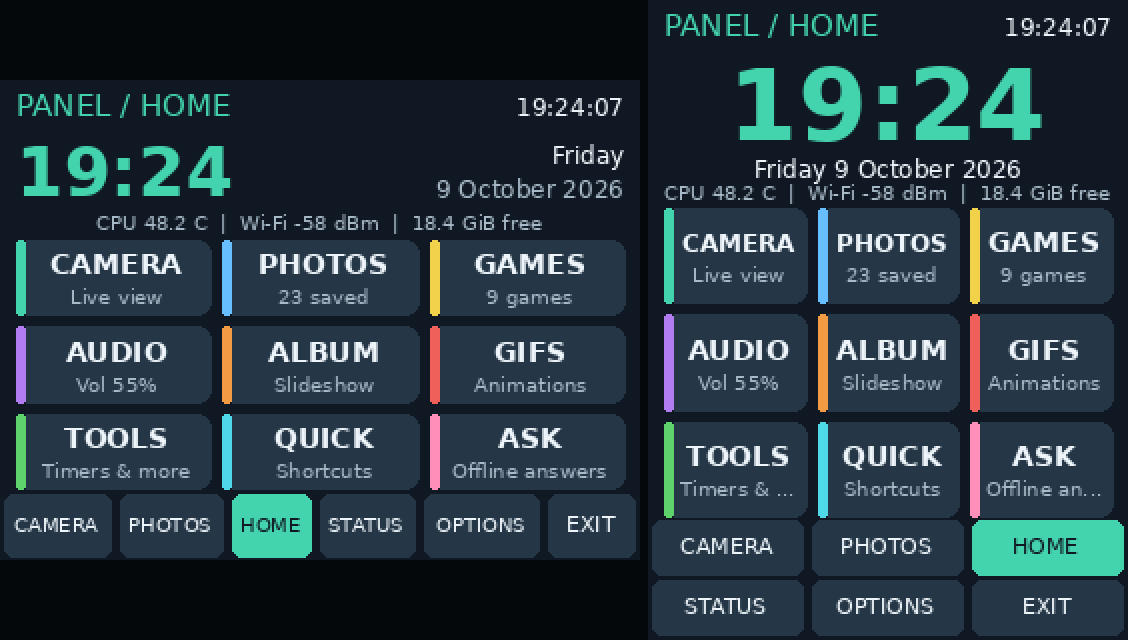
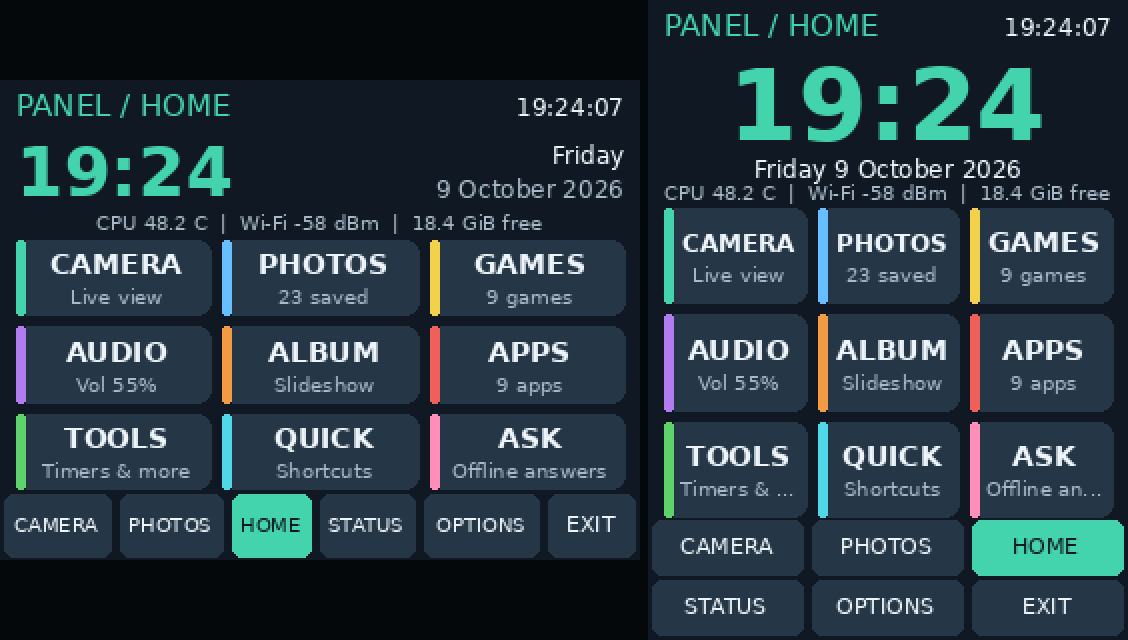
Home: an APPS tile in place of GIFS, so every app can be reached
Since Home replaced the APPS tab, nothing opened the APPS page, which left
SOS & LIGHT, PLANNER and READER unreachable. The GIFS tile becomes APPS; the
GIF player is still on the APPS page.

Claude-Session: https://claude.ai/code/session_016w3uQjEr2ZwcCKuYp4Kst7

diff --git a/panel_app.py b/panel_app.py
@@ -3287,7 +3287,7 @@ TAB_PARENT = {'health': 'status', 'history': 'status', 'savers': 'options', 'sav
 # Home page launcher: (label, key, accent colour).
 HOME_TILES = (('CAMERA', 'camera', ACCENT), ('PHOTOS', 'photos', BLUE),
               ('GAMES', 'games', YELLOW), ('AUDIO', 'audio', PURPLE),
-              ('ALBUM', 'album', ORANGE), ('GIFS', 'gifs', RED),
+              ('ALBUM', 'album', ORANGE), ('APPS', 'apps', RED),
               ('TOOLS', 'tools', GREEN), ('QUICK', 'quick', CYAN),
               ('ASK', 'ask', '#ff8fb8'))
 
@@ -4223,7 +4223,7 @@ def main():
                     'games': f'{len(GAME_PAGES)} games',
                     'audio': (f"Vol {audio.state['volume']}%"
                               if audio.state.get('volume') is not None else 'Music, volume'),
-                    'album': 'Slideshow', 'gifs': 'Animations', 'tools': 'Timers & more',
+                    'album': 'Slideshow', 'apps': f'{len(APP_TILES)} apps', 'tools': 'Timers & more',
                     'quick': 'Shortcuts', 'ask': apps['ask'].note()}}
             elif page == 'apps':
                 extra = {'notes': app_notes()}

diff --git a/tests/test_home.py b/tests/test_home.py
@@ -37,6 +37,11 @@ class HomePageTest(unittest.TestCase):
                              ['home:' + key for _, key, _ in app.HOME_TILES])
             self.assertIn('tab:home', [a for _, a in app.HOTSPOTS])
 
+    def test_every_app_is_reachable_from_home(self):
+        # The APPS page is the only way to some apps (SOS, planner, reader), so Home must lead to it.
+        self.assertIn('apps', [key for _, key, _ in app.HOME_TILES])
+        self.assertIn(('READER', 'reader'), app.APP_TILES)
+
     def test_home_tab_sits_where_apps_was(self):
         app.render('status', None, False, 20, self.rows, '')
         self.assertEqual(app.hit(136, 222), 'tab:home')

diff --git a/tools/render_previews.py b/tools/render_previews.py
@@ -293,7 +293,7 @@ def games_screens(clock):
 def home_screens(clock):
     rows = {'temp': '48.2 C', 'disk_free': '18.4 GiB'}
     notes = {'wifi': 'Wi-Fi -58 dBm', 'camera': 'Live view', 'photos': '23 saved',
-             'games': '9 games', 'audio': 'Vol 55%', 'album': 'Slideshow', 'gifs': 'Animations',
+             'games': '9 games', 'audio': 'Vol 55%', 'album': 'Slideshow', 'apps': '9 apps',
              'tools': 'Timers & more', 'quick': 'Shortcuts', 'ask': 'Offline answers'}
     landscape = app.render('home', None, False, 20, rows, '', wall_time=clock, extra={'home': notes})
     app.set_rotation(90)

diff --git a/docs/HOME-AND-STARTUP.md b/docs/HOME-AND-STARTUP.md
@@ -17,11 +17,12 @@ The app now opens on **Home**, a launcher for everything else.
   | Games | The Games menu | Number of games |
   | Audio | Volume and visualizer | Current volume |
   | Album | Slideshow | |
-  | GIFs | GIF player | |
+  | Apps | The APPS page: Audio, Games, Album, GIF player, Tools, Quick, SOS & light, Planner and Reader | |
   | Tools | Tools menu | |
   | Quick | Quick controls | |
   | Ask | Ask the offline librarian ([LIBRARIAN.md](LIBRARIAN.md#on-the-panel)) | Answering..., or Backend off |
 
+- **GIFs** moved inside **Apps** to make room for the Apps tile, so SOS & light, Planner and Reader can be reached from Home.
 - **Screensaver:** the Saver tile made way for Ask. The saver still starts on its own after the idle delay, and **OPTIONS → Screensavers → PREVIEW** starts it at once.
 - **Tab bar:** the **APPS** tab is now **HOME**, in the same spot, so the other tabs haven't moved. In portrait, HOME is the top-right tab.
 - **Returning:** leaving the Games menu, Tools, Audio and the other apps now brings you back to Home.

diff --git a/README.md b/README.md
@@ -4,7 +4,7 @@ Touch app for a Raspberry Pi 4 with a 2.8" ILI9341 SPI TFT (320x240, `fbtft`), a
 
 | Page | What it does |
 | --- | --- |
-| HOME | Start page: clock, status and tiles for Camera, Photos, Games, Audio, Album, GIFs, Tools, Quick controls and Ask |
+| HOME | Start page: clock, status and tiles for Camera, Photos, Games, Audio, Album, Apps, Tools, Quick controls and Ask |
 | ASK (via Home) | Type a question on an on-screen keyboard and read the offline librarian's answer with its sources (needs cyberdeck-core) |
 | CAMERA | Live preview, full-resolution SNAP, 3 s/10 s self-timer, pause, FPS, and a last-photo thumbnail |
 | PHOTOS | Browse, zoom/pan full-size pictures and delete saved photos |
